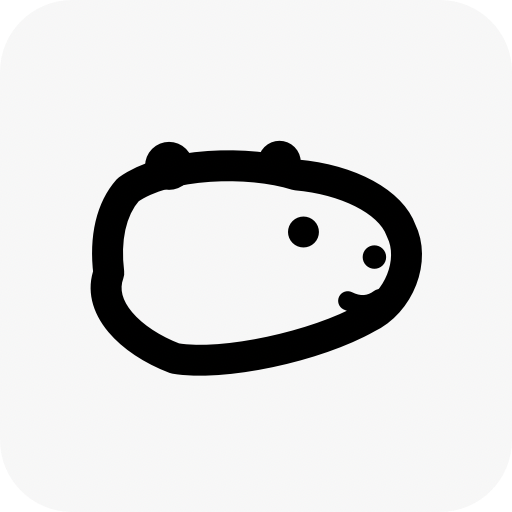
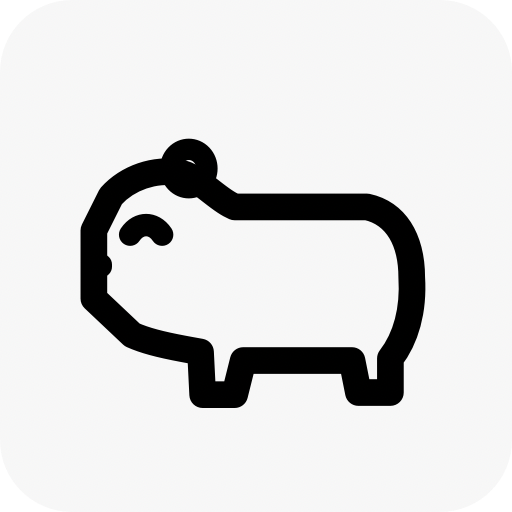
style: redesign capybara branding

diff --git a/Sources/DesktopTodoDaemon/CapybaraStatusIcon.swift b/Sources/DesktopTodoDaemon/CapybaraStatusIcon.swift
@@ -4,70 +4,77 @@ enum CapybaraStatusIcon {
     static let image: NSImage = {
         let image = NSImage(size: NSSize(width: 18, height: 18), flipped: false) { _ in
             let ink = NSColor.black
-
-            // 两只短耳：小而圆，避免缩小后和头顶轮廓粘成一块。
-            ink.setFill()
-            NSBezierPath(ovalIn: NSRect(x: 3.8, y: 12.1, width: 2.25, height: 2.25)).fill()
-            NSBezierPath(ovalIn: NSRect(x: 9.1, y: 12.4, width: 2.0, height: 2.0)).fill()
-
-            // 卡皮巴拉最有识别度的是长而钝的鼻口，轮廓向右平缓延伸。
-            let head = NSBezierPath()
-            head.move(to: NSPoint(x: 3.0, y: 12.1))
-            head.curve(
-                to: NSPoint(x: 10.9, y: 12.8),
-                controlPoint1: NSPoint(x: 4.8, y: 13.4),
-                controlPoint2: NSPoint(x: 8.7, y: 13.5)
-            )
-            head.curve(
-                to: NSPoint(x: 15.8, y: 10.2),
-                controlPoint1: NSPoint(x: 13.2, y: 12.6),
-                controlPoint2: NSPoint(x: 15.3, y: 11.6)
-            )
-            head.curve(
-                to: NSPoint(x: 14.2, y: 6.1),
-                controlPoint1: NSPoint(x: 16.5, y: 8.8),
-                controlPoint2: NSPoint(x: 15.7, y: 6.8)
-            )
-            head.curve(
-                to: NSPoint(x: 5.2, y: 4.2),
-                controlPoint1: NSPoint(x: 11.9, y: 4.8),
-                controlPoint2: NSPoint(x: 7.5, y: 3.8)
-            )
-            head.curve(
-                to: NSPoint(x: 2.1, y: 8.2),
-                controlPoint1: NSPoint(x: 3.1, y: 5.0),
-                controlPoint2: NSPoint(x: 1.5, y: 6.6)
-            )
-            head.curve(
-                to: NSPoint(x: 3.0, y: 12.1),
-                controlPoint1: NSPoint(x: 1.9, y: 9.8),
-                controlPoint2: NSPoint(x: 2.2, y: 11.2)
-            )
-            head.close()
-            head.lineWidth = 1.45
-            head.lineJoinStyle = .round
             ink.setStroke()
-            head.stroke()
+            ink.setFill()
 
-            // 一眼一鼻即可形成表情；保持留白，避免状态栏尺寸下变成黑块。
-            NSBezierPath(ovalIn: NSRect(x: 10.5, y: 9.4, width: 1.45, height: 1.45)).fill()
-            NSBezierPath(ovalIn: NSRect(x: 14.0, y: 8.4, width: 1.1, height: 1.1)).fill()
-
-            let mouth = NSBezierPath()
-            mouth.move(to: NSPoint(x: 13.3, y: 6.9))
-            mouth.curve(
-                to: NSPoint(x: 14.8, y: 7.0),
-                controlPoint1: NSPoint(x: 13.9, y: 6.6),
-                controlPoint2: NSPoint(x: 14.4, y: 6.7)
+            // 侧身全身轮廓：楔形长头、桶状身体、无尾和短腿共同建立物种识别。
+            let body = NSBezierPath()
+            body.move(to: NSPoint(x: 1.4, y: 10.2))
+            body.line(to: NSPoint(x: 2.2, y: 11.8))
+            body.curve(
+                to: NSPoint(x: 5.4, y: 12.9),
+                controlPoint1: NSPoint(x: 3.0, y: 12.7),
+                controlPoint2: NSPoint(x: 4.3, y: 13.1)
             )
-            mouth.lineWidth = 0.9
-            mouth.lineCapStyle = .round
-            mouth.stroke()
+            body.curve(
+                to: NSPoint(x: 8.0, y: 11.3),
+                controlPoint1: NSPoint(x: 6.2, y: 12.8),
+                controlPoint2: NSPoint(x: 7.1, y: 11.7)
+            )
+            body.line(to: NSPoint(x: 14.2, y: 11.3))
+            body.curve(
+                to: NSPoint(x: 16.3, y: 8.0),
+                controlPoint1: NSPoint(x: 15.6, y: 11.0),
+                controlPoint2: NSPoint(x: 16.3, y: 9.7)
+            )
+            body.curve(
+                to: NSPoint(x: 15.3, y: 4.2),
+                controlPoint1: NSPoint(x: 16.4, y: 6.4),
+                controlPoint2: NSPoint(x: 16.0, y: 5.1)
+            )
+            body.line(to: NSPoint(x: 15.3, y: 2.6))
+            body.line(to: NSPoint(x: 13.8, y: 2.6))
+            body.line(to: NSPoint(x: 13.5, y: 4.1))
+            body.line(to: NSPoint(x: 8.4, y: 4.1))
+            body.line(to: NSPoint(x: 8.0, y: 2.5))
+            body.line(to: NSPoint(x: 6.5, y: 2.5))
+            body.line(to: NSPoint(x: 6.4, y: 4.5))
+            body.curve(
+                to: NSPoint(x: 3.2, y: 5.3),
+                controlPoint1: NSPoint(x: 5.3, y: 4.7),
+                controlPoint2: NSPoint(x: 4.1, y: 4.9)
+            )
+            body.line(to: NSPoint(x: 1.4, y: 7.0))
+            body.close()
+            body.lineWidth = 1.25
+            body.lineJoinStyle = .round
+            body.lineCapStyle = .round
+            body.stroke()
+
+            // 小耳贴近头顶，不使用熊类的大圆耳。
+            let ear = NSBezierPath(ovalIn: NSRect(x: 5.0, y: 12.2, width: 1.7, height: 1.8))
+            ear.lineWidth = 1.0
+            ear.stroke()
+
+            // 一条向上拱的短弧，表达安静但有生命力的眯眼。
+            let eye = NSBezierPath()
+            eye.move(to: NSPoint(x: 3.1, y: 10.0))
+            eye.curve(
+                to: NSPoint(x: 4.6, y: 10.0),
+                controlPoint1: NSPoint(x: 3.5, y: 10.6),
+                controlPoint2: NSPoint(x: 4.2, y: 10.6)
+            )
+            eye.lineWidth = 1.05
+            eye.lineCapStyle = .round
+            eye.stroke()
+
+            // 钝鼻位于楔形头最前端；卡皮巴拉没有可见尾巴。
+            NSBezierPath(roundedRect: NSRect(x: 1.0, y: 8.0, width: 1.25, height: 1.1), xRadius: 0.5, yRadius: 0.5).fill()
 
             return true
         }
         image.isTemplate = true
-        image.accessibilityDescription = "卡皮巴拉待办"
+        image.accessibilityDescription = "眯眼卡皮巴拉待办"
         return image
     }()
 }

diff --git a/Sources/DesktopTodoDaemon/PixelCapybaraLogo.swift b/Sources/DesktopTodoDaemon/PixelCapybaraLogo.swift
@@ -1,0 +1,23 @@
+import AppKit
+
+enum PixelCapybaraLogo {
+    static let image: NSImage = {
+        let installedURL = Bundle.main.url(
+            forResource: "capybara-pixel-logo",
+            withExtension: "png"
+        )
+        let packageURL = Bundle.module.url(
+            forResource: "capybara-pixel-logo",
+            withExtension: "png"
+        )
+
+        guard let url = installedURL ?? packageURL,
+              let image = NSImage(contentsOf: url) else {
+            return NSImage(size: NSSize(width: 42, height: 28))
+        }
+
+        image.size = NSSize(width: 42, height: 28)
+        image.accessibilityDescription = "眯眼像素卡皮巴拉"
+        return image
+    }()
+}

diff --git a/Sources/DesktopTodoDaemon/DesktopTodoDaemonApp.swift b/Sources/DesktopTodoDaemon/DesktopTodoDaemonApp.swift
@@ -133,7 +133,7 @@ final class AppDelegate: NSObject, NSApplicationDelegate, ObservableObject {
     private func preferredPanelHeight(for model: TodoModel) -> CGFloat {
         let visibleRows = min(max(model.activeItems.count, 1), 8)
         let rowHeight: CGFloat = 40
-        let baseHeight: CGFloat = 124
+        let baseHeight: CGFloat = 132
         let completedHeaderHeight: CGFloat = model.completedCount > 0 ? 34 : 0
         let completedRows = completedSectionExpanded ? min(model.completedCount, 8) : 0
         let completedRowsHeight = CGFloat(completedRows) * 36

diff --git a/Sources/DesktopTodoDaemon/TodoView.swift b/Sources/DesktopTodoDaemon/TodoView.swift
@@ -48,6 +48,11 @@ struct TodoView: View {
 
     private var header: some View {
         HStack(spacing: 8) {
+            Image(nsImage: PixelCapybaraLogo.image)
+                .interpolation(.none)
+                .resizable()
+                .frame(width: 42, height: 28)
+                .accessibilityHidden(true)
             Text("待办")
                 .font(.system(size: 18, weight: .semibold, design: .rounded))
             Text("\(model.activeItems.count)")

diff --git a/Package.swift b/Package.swift
@@ -10,7 +10,8 @@ let package = Package(
     targets: [
         .executableTarget(
             name: "DesktopTodoDaemon",
-            path: "Sources/DesktopTodoDaemon"
+            path: "Sources/DesktopTodoDaemon",
+            resources: [.process("Resources")]
         )
     ]
 )

diff --git a/docs/icon-design.md b/docs/icon-design.md
@@ -1,12 +1,18 @@
-# 卡皮巴拉状态栏图标
+# 卡皮巴拉视觉
 
 ![卡皮巴拉状态栏图标预览](assets/capybara-status-icon-preview.png)
 
-图标面向 macOS 16–18pt 状态栏尺寸，不按插画处理。
+## 状态栏图标
 
-- 用横向圆钝头型表达卡皮巴拉最有识别度的长鼻口。
-- 两只短耳提供动物轮廓，单眼、鼻孔和短嘴线形成平静表情。
+- 面向 macOS 16–18pt 状态栏尺寸，以侧身全身轮廓表达卡皮巴拉：楔形长头、钝鼻、低矮桶状身体、无尾和短腿。
+- 一只眼睛是中间略高的短弧，形成有笑意的眯眼表情；不使用缩小后易糊的瞳孔、高光或毛发。
 - 采用系统模板图标机制，只保留轮廓与关键黑点，由 macOS 自动适配深色、浅色和选中状态。
-- 不加入身体、毛发、颜色或文字，避免缩小后模糊成块。
+- 不加入颜色或文字，避免缩小后模糊成块。
 
 源图由 `CapybaraStatusIcon.swift` 使用 AppKit 贝塞尔路径绘制，可确定性修改和复现。
+
+## 窗口 Logo
+
+![眯眼像素卡皮巴拉](assets/capybara-pixel-logo.png)
+
+窗口标题区使用 96×64 px 透明 PNG，以 42×28pt 显示。它使用完整侧身轮廓和笑弧眯眼，暖棕色像素块提供产品识别；位置在“待办”标题左侧，不占用列表内容空间。
